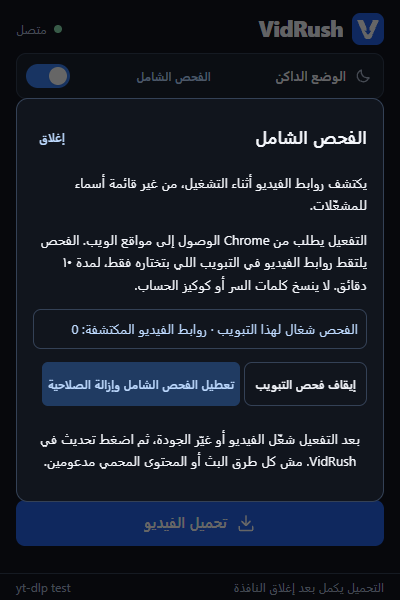
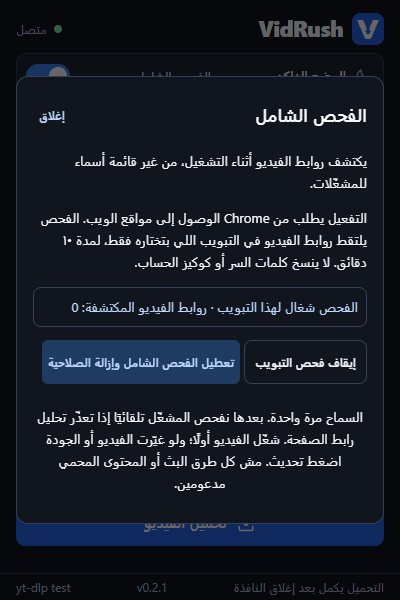
docs: explain automatic scanning and browser qualities in version 0.2.1
Committed-By-Agent: codex

diff --git a/README.md b/README.md
@@ -123,7 +123,7 @@ File names include the source video ID and format IDs, so different qualities of
 
 - Only qualities actually reported by the website are shown. VidRush does not upscale videos.
 - Up to three resolution buttons provide quick choices. **All qualities**, when shown, contains every available choice, including alternatives with the same resolution. The details below the buttons describe the selected choice's container, frame rate, and approximate size when available.
-- Regular yt-dlp choices include audio. The browser-file fallback saves the current MP4/WebM file as supplied by the website; it does not merge a separate audio track.
+- Regular yt-dlp choices include audio. The browser-file fallback saves the selected MP4/WebM file as supplied by the website; it does not merge a separate audio track.
 - **MP4** is offered when a suitable source combination is available. Other combinations may produce **MKV**. VidRush does not re-encode the video to force MP4.
 - An approximate size appears when the website provides enough information; otherwise no size is shown.
 - Separate video and audio tracks download in sequence. The percentage can restart for the second track, then the status changes to merging. Wait for **Completed**, rather than a track reaching 100%.
@@ -135,15 +135,15 @@ If a video plays in Chrome but VidRush reports **Unsupported URL**, the page may
 
 1. Sign in to the course website yourself and open a lesson you can watch.
 2. Start the video and let it play for a few seconds. Keep the lesson page open.
-3. Open VidRush. If **`فحص مشغّل الفيديو`** (Scan video player) appears, click it. Chrome may ask to allow access to the frame sites discovered on this page. This permission is optional; a new player domain does not require a code update.
-4. Allow the player access if you want to use this feature. If the popup closes during Chrome's permission prompt, reopen VidRush; it will retry with the granted access.
+3. Open VidRush. It automatically scans accessible player frames if normal page analysis fails. If the player still needs website access, **`تفعيل الفحص التلقائي`** (Enable automatic scanning) appears as a setup step.
+4. Click that button once and allow Chrome's optional access to HTTP/HTTPS websites. VidRush starts scanning immediately and reuses the grant on other websites and after reopening the popup. Previously granted access to individual player sites also continues to work automatically. If Chrome closes the popup during its permission prompt, reopen VidRush. [Chrome requires a user click for the initial permission request](https://developer.chrome.com/docs/extensions/reference/api/permissions#implement_optional_permissions); VidRush cannot silently approve it.
 5. Choose a quality and download. If **`الفيديو المكتشف`** (Detected video) appears, select the intended video source; a page can contain advertisements or several videos. The companion preserves the available referrer, user agent, and origin for the chosen source.
 
-<img src="docs/popup-player.png" width="300" alt="VidRush offering an optional Scan video player action for an embedded lesson">
+<img src="docs/popup-player.png" width="300" alt="VidRush offering one-time automatic scanning setup for an embedded lesson">
 
 This helps with non-DRM players that expose a readable file or stream. VidRush does not sign you in or export browser cookies/passwords. A `blob:` address alone is not a downloadable file; the underlying media must be discoverable.
 
-Existing users must run **`Update.cmd`** from the latest project copy, finish active downloads, then reload VidRush at `chrome://extensions` before using player scanning. Both the extension and companion need this update. Chrome manages the optional player permission, which can be revoked in the extension's site-access settings.
+Existing users must run **`Update.cmd`** from the latest project copy, finish active downloads, then reload VidRush at `chrome://extensions`. Check that the footer shows **v0.2.1**. Both the extension and companion need this update for browser quality selection. Saved website permissions remain managed by Chrome; revoke the broad grant using **Comprehensive scan → Disable comprehensive scan and remove permission**, or change site access in Chrome.
 
 ### Enable comprehensive scanning once
 
@@ -151,8 +151,8 @@ For broader automatic detection without allowing each frame site separately:
 
 1. Open VidRush on the video page. Click **`الفحص الشامل`** (Comprehensive scan) beside the theme controls.
 2. Click **`تفعيل الفحص الشامل`** (Enable comprehensive scan). Chrome asks for access to HTTP/HTTPS websites. Approve it only if you want this optional mode; basic downloads still work without it.
-3. If Chrome closes the popup, reopen VidRush and open **Comprehensive scan** again. When needed, click **`فحص التبويب الحالي`** (Scan current tab).
-4. Start/restart the video or change its quality, then click **`تحديث`** (Refresh) in VidRush. Requests made before scanning began may need to be repeated. If necessary, reload the video page after enabling the mode and start playback again.
+3. VidRush immediately scans the current player after permission is granted. If Chrome closes the popup, reopen VidRush; it automatically analyzes the page using the saved grant. You do not need to press a player-scan button on every site. If you previously stopped capture, **`فحص التبويب الحالي`** (Scan current tab) resumes it.
+4. Start the video before opening VidRush. If it started loading after the first attempt, VidRush gives an authorized player one automatic retry. Requests made before capture began may need to be repeated: restart the video, then use **`تحديث`** (Refresh) if needed. Use Refresh after changing the video or quality as well.
 5. Select the detected video and quality, check your save folder, and download.
 
 <img src="docs/popup-comprehensive.png" width="300" alt="Comprehensive scanning settings explaining optional website access and selected-tab capture">
@@ -165,7 +165,11 @@ The detector recognizes HLS, DASH, and supported video files by their URL or res
 
 Some players use a Service Worker to serve a virtual MP4/WebM address. The video plays in the page, but requesting that same address outside Chrome returns 403 or fails. When ordinary yt-dlp analysis fails, VidRush can probe a readable, non-DRM MP4/WebM in its original frame and transfer the file through Chrome to the local companion in small acknowledged chunks. The file goes into your selected save folder normally.
 
-For these downloads, **keep the video page and Chrome open until completion**. Closing the VidRush popup is fine. Closing/navigating the source page, reloading the extension, or revoking its frame access interrupts the transfer. Cancellation may leave a `.part` file. VidRush shows the current file's observed resolution when available; change quality in the website player and refresh to discover another source. It cannot invent additional qualities. Separate browser-only audio/video streams and browser-only HLS/DASH reconstruction are not handled by this fallback.
+For these downloads, **keep the video page and Chrome open until completion**. Closing the VidRush popup is fine. Closing/navigating the source page, reloading the extension, or revoking its frame access interrupts the transfer. Cancellation may leave a `.part` file.
+
+VidRush checks up to 16 declared files from the video element's `<source>` entries and, when available, the public JW Player playlist API. It reads a small file header to include only readable MP4/WebM files with a known size. It does not switch playback to cycle through qualities. Every option is bound to its own file and size, so selecting 720p downloads that file even if the website is currently playing another quality.
+
+Quality names come from the player's labels when available. For example, a movie labelled **360p** may contain a cropped image only **272 pixels high**; VidRush keeps the player's 360p label instead of inventing a separate 272p quality. If the player supplies only one file and has no quality menu, VidRush offers only that file. If other files are hidden until the website switches quality, change it in the player and refresh VidRush. This is not universal quality enumeration: private player APIs, separate browser-only audio/video streams, and browser-only HLS/DASH reconstruction remain unsupported by this fallback.
 
 ## Supported websites and limits
 
